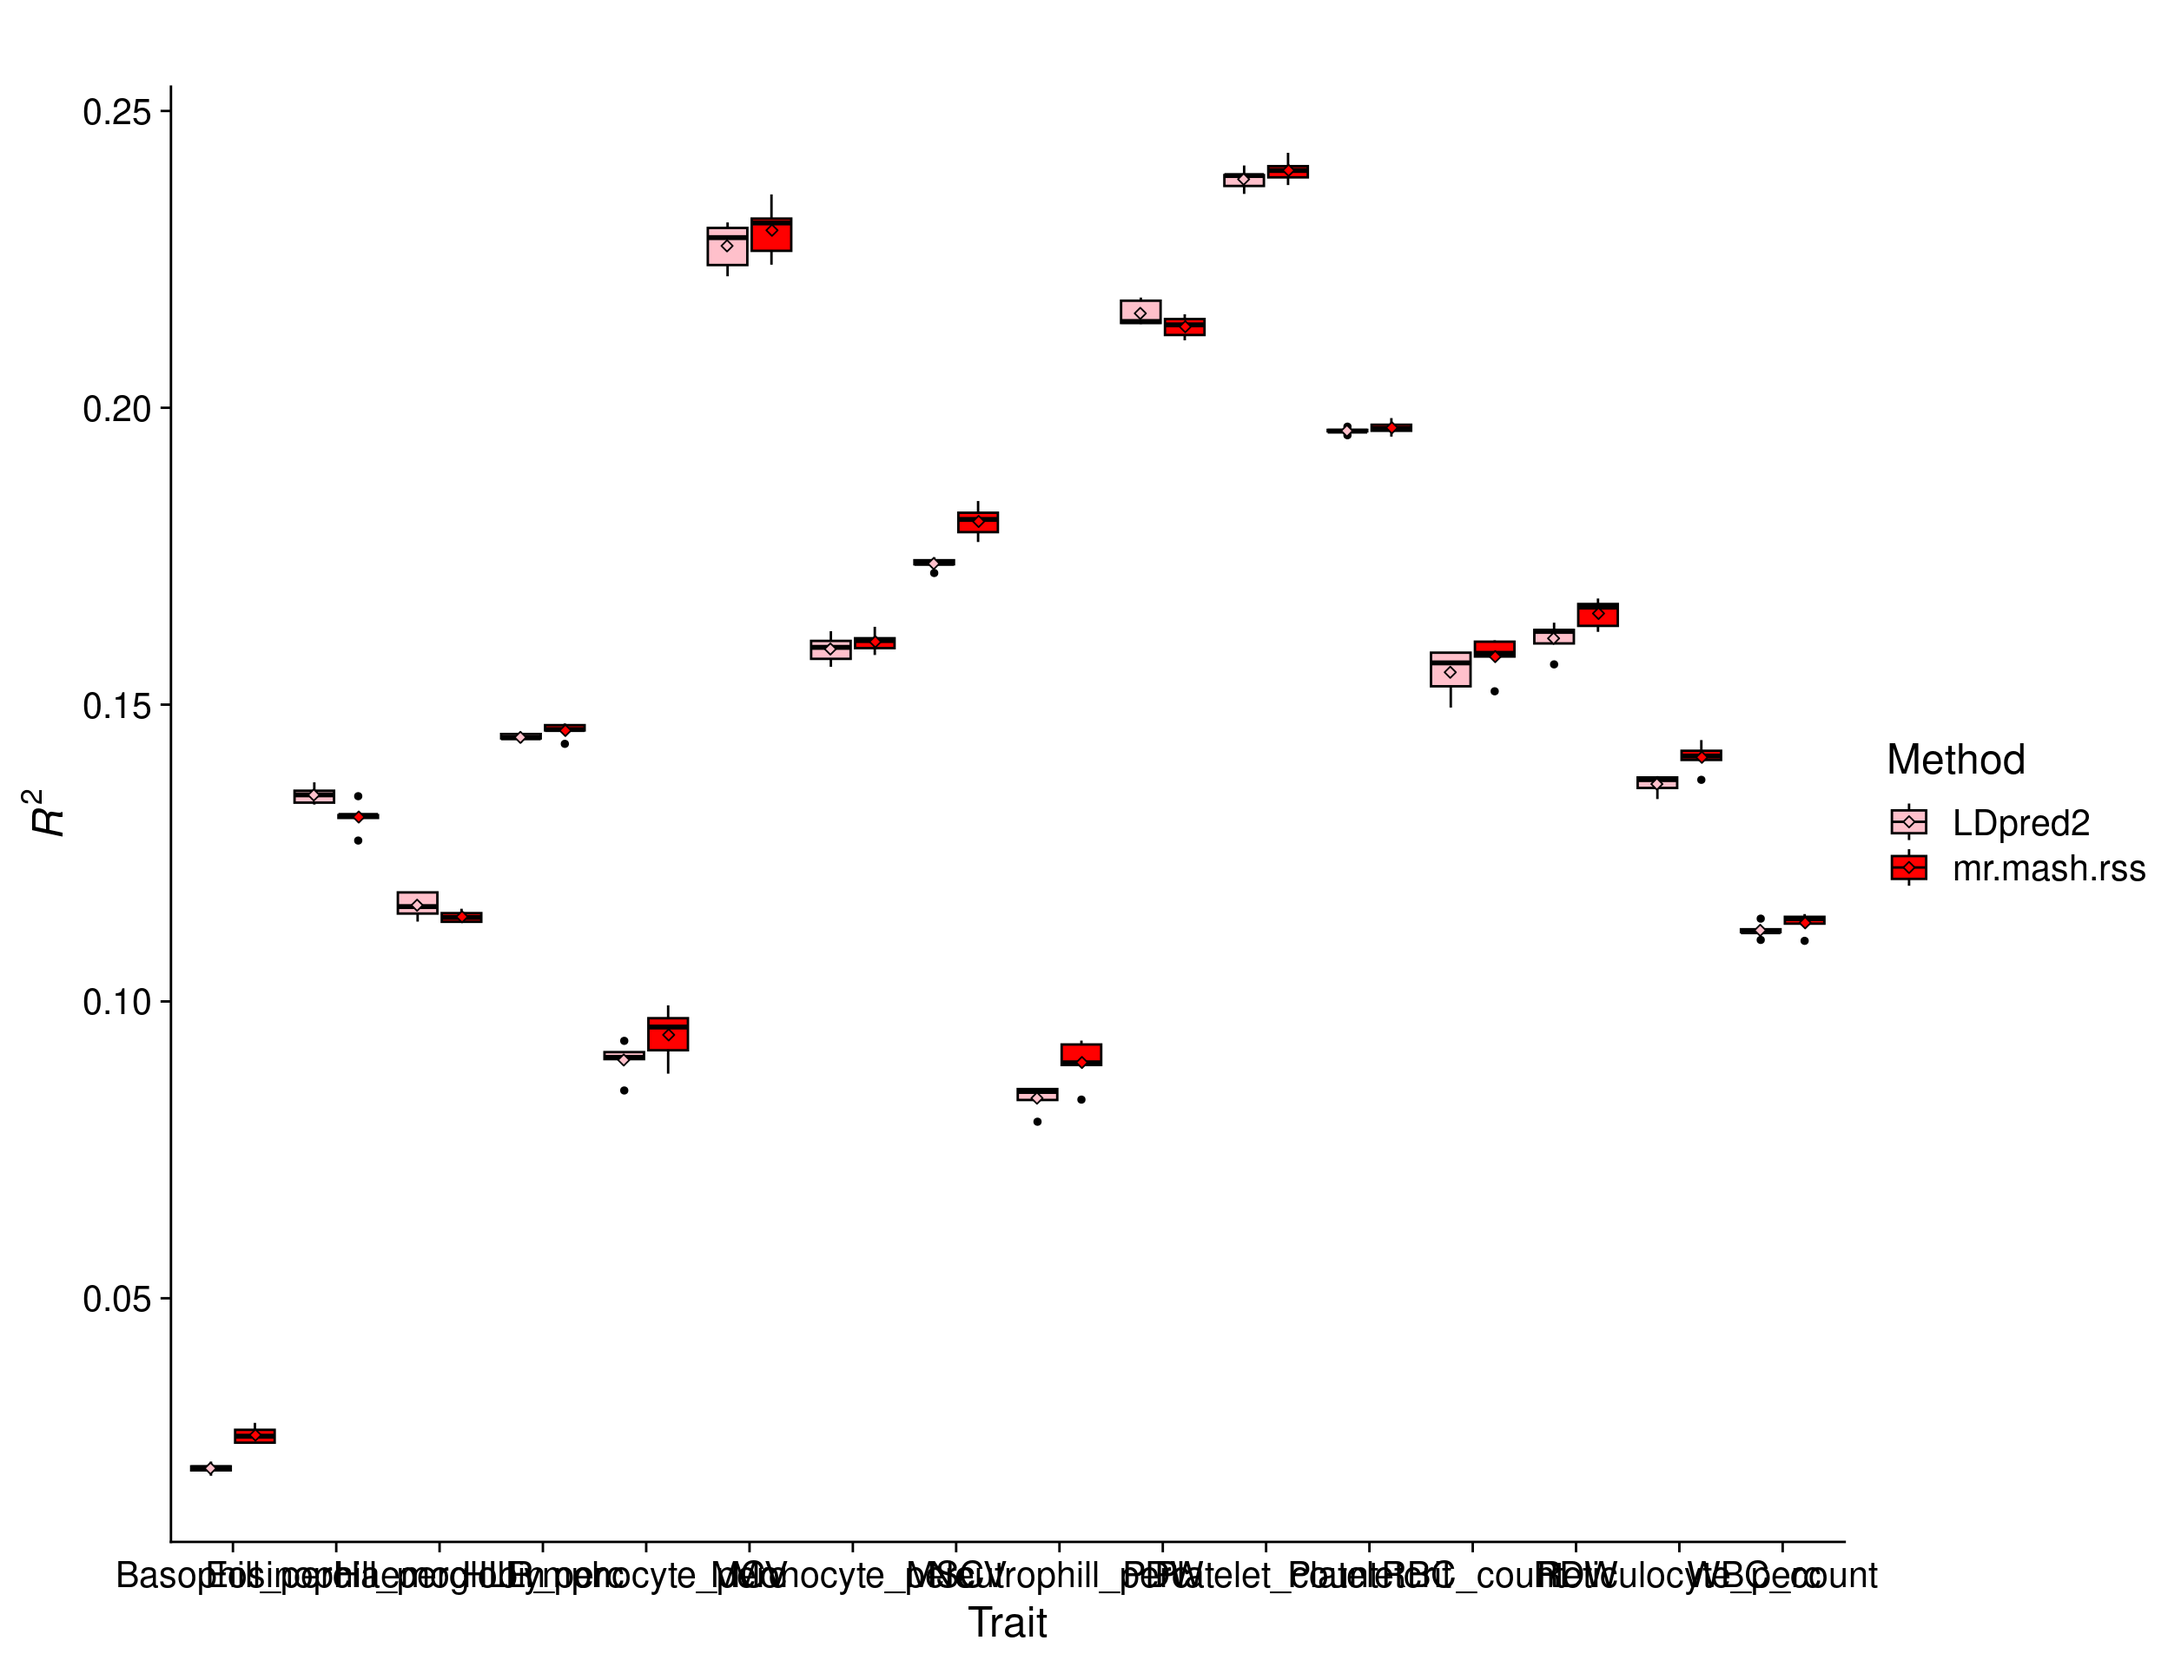
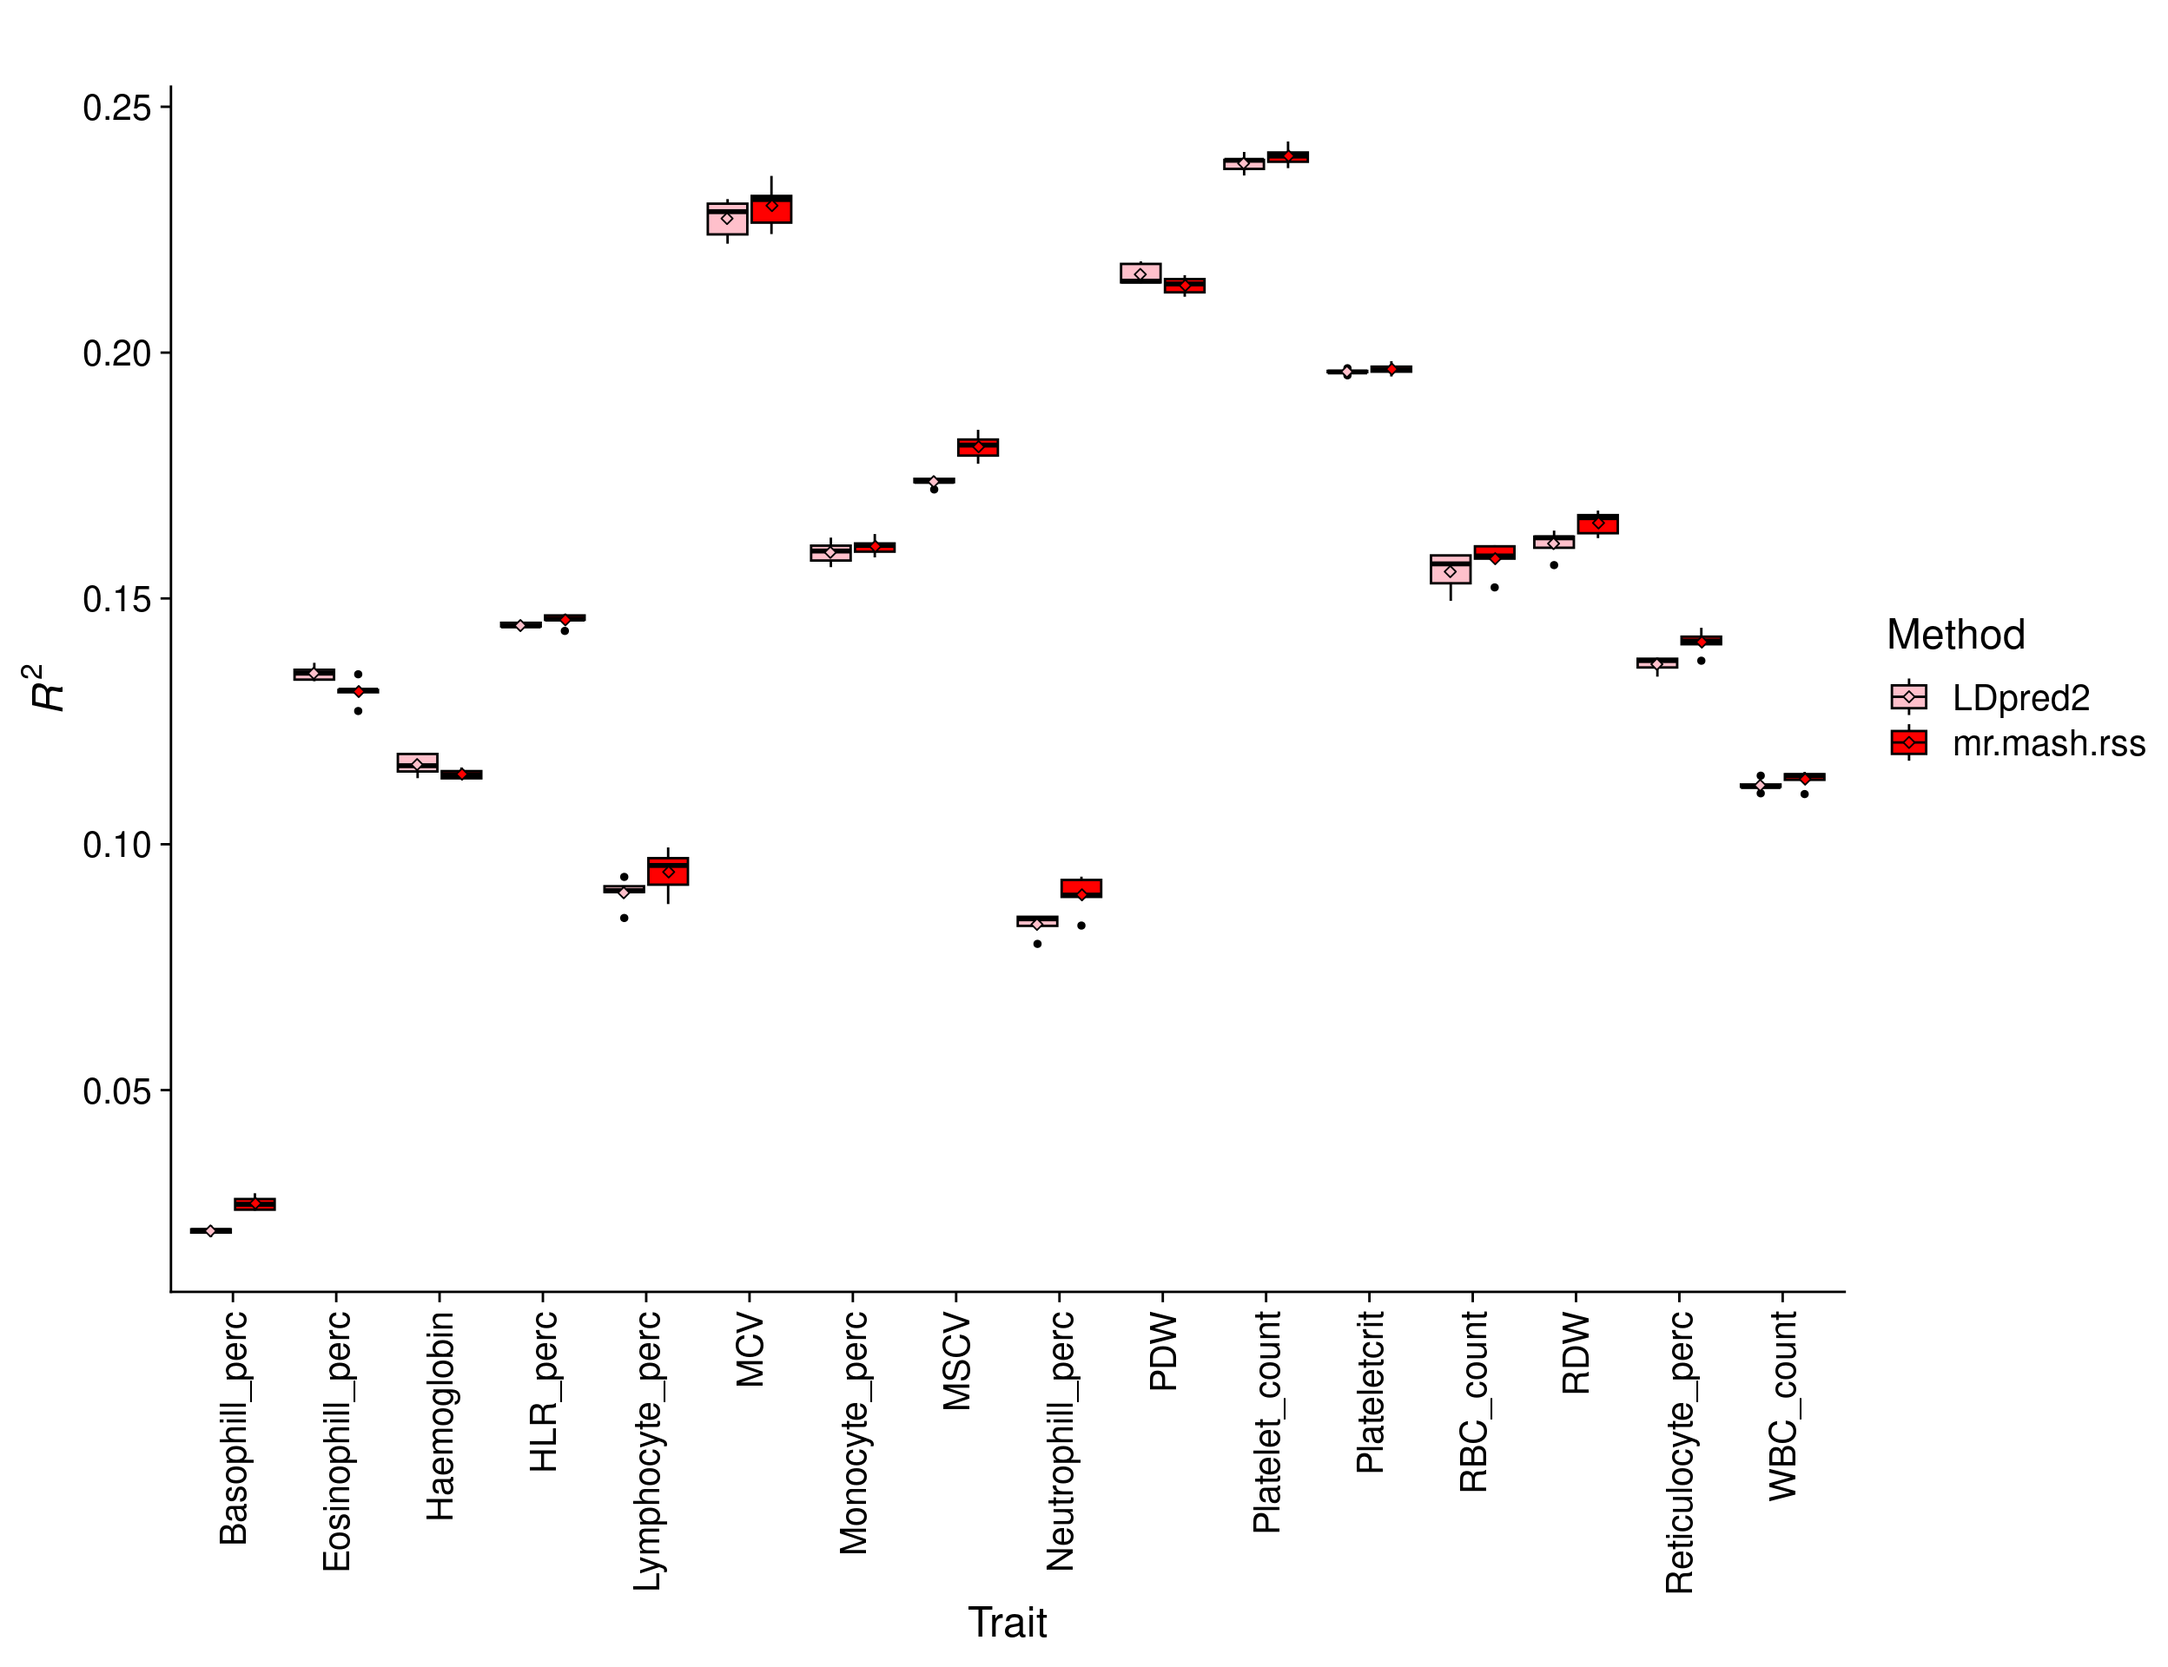
Build site.

diff --git a/docs/ukb_bc_results.html b/docs/ukb_bc_results.html
@@ -534,15 +534,15 @@ project makes it easier to run your code on other machines.</p>
 <div class="panel panel-default">
 <div class="panel-heading">
 <p class="panel-title">
-<a data-toggle="collapse" data-parent="#workflowr-checks" href="#strongRepositoryversionstrongahrefhttpsgithubcommorgantelabmrmashrssanalysistree89d9d1fb56b77329fe53eea4624d9f0a19dc1b4dtargetblank89d9d1fa">
+<a data-toggle="collapse" data-parent="#workflowr-checks" href="#strongRepositoryversionstrongahrefhttpsgithubcommorgantelabmrmashrssanalysistree7822773394720f8ba7cb343f993b17bf6d4f602etargetblank7822773a">
 <span class="glyphicon glyphicon-ok text-success"
 aria-hidden="true"></span> <strong>Repository version:</strong>
-<a href="https://github.com/morgantelab/mr_mash_rss_analysis/tree/89d9d1fb56b77329fe53eea4624d9f0a19dc1b4d" target="_blank">89d9d1f</a>
+<a href="https://github.com/morgantelab/mr_mash_rss_analysis/tree/7822773394720f8ba7cb343f993b17bf6d4f602e" target="_blank">7822773</a>
 </a>
 </p>
 </div>
 <div
[2 lines of base64/hex data omitted]
 class="panel-collapse collapse">
 <div class="panel-body">
 <p>
@@ -552,7 +552,7 @@ reproducibility.
 </p>
 <p>
 The results in this page were generated with repository version
-<a href="https://github.com/morgantelab/mr_mash_rss_analysis/tree/89d9d1fb56b77329fe53eea4624d9f0a19dc1b4d" target="_blank">89d9d1f</a>.
+<a href="https://github.com/morgantelab/mr_mash_rss_analysis/tree/7822773394720f8ba7cb343f993b17bf6d4f602e" target="_blank">7822773</a>.
 See the <em>Past versions</em> tab to see a history of the changes made
 to the R Markdown and HTML files.
 </p>
@@ -633,6 +633,40 @@ Message
 </tr>
 </thead>
 <tbody>
+<tr>
+<td>
+Rmd
+</td>
+<td>
+<a href="https://github.com/morgantelab/mr_mash_rss_analysis/blob/7822773394720f8ba7cb343f993b17bf6d4f602e/analysis/ukb_bc_results.Rmd" target="_blank">7822773</a>
+</td>
+<td>
+fmorgante
+</td>
+<td>
+2023-10-30
+</td>
+<td>
+Adjust labels
+</td>
+</tr>
+<tr>
+<td>
+html
+</td>
+<td>
+<a href="https://rawcdn.githack.com/morgantelab/mr_mash_rss_analysis/9ad448b9e9b4ceaf44d89f9ec737cef07861db93/docs/ukb_bc_results.html" target="_blank">9ad448b</a>
+</td>
+<td>
+fmorgante
+</td>
+<td>
+2023-10-30
+</td>
+<td>
+Build site.
+</td>
+</tr>
 <tr>
 <td>
 Rmd
@@ -902,7 +936,8 @@ p_methods_shared &lt;- ggplot(res, aes(x = trait, y = r2, fill = method)) +
   labs(x = &quot;Trait&quot;, y = expression(italic(R)^2), fill=&quot;Method&quot;, title=&quot;&quot;) + 
   # facet_grid(~trait, scales=&quot;free_x&quot;) +
   # geom_hline(aes(yintercept = h2), linez) +
-  theme_cowplot(font_size = 18)
+  theme_cowplot(font_size = 18) +
+  theme(axis.text.x = element_text(angle = 90, vjust = 0.5, hjust=1))
 
 print(p_methods_shared)</code></pre>
 <p><img src="figure/ukb_bc_results.Rmd/results_accuracy-1.png" width="1248" style="display: block; margin: auto;" /></p>
@@ -928,6 +963,17 @@ Date
 </tr>
 </thead>
 <tbody>
+<tr>
+<td>
+<a href="https://github.com/morgantelab/mr_mash_rss_analysis/blob/9ad448b9e9b4ceaf44d89f9ec737cef07861db93/docs/figure/ukb_bc_results.Rmd/results_accuracy-1.png" target="_blank">9ad448b</a>
+</td>
+<td>
+fmorgante
+</td>
+<td>
+2023-10-30
+</td>
+</tr>
 <tr>
 <td>
 <a href="https://github.com/morgantelab/mr_mash_rss_analysis/blob/2ffac98d0e1de07b2c45bcd2b5acaa517b18db1c/docs/figure/ukb_bc_results.Rmd/results_accuracy-1.png" target="_blank">2ffac98</a>
